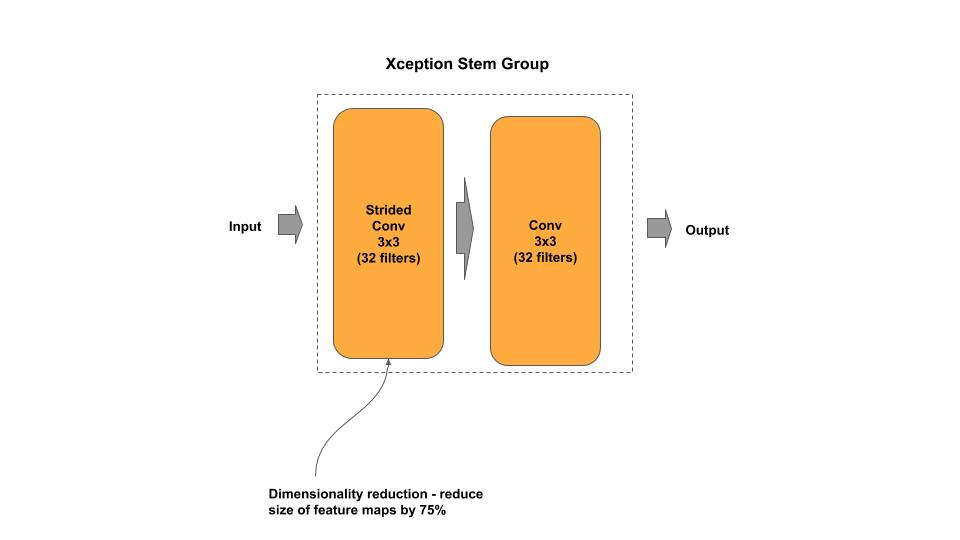
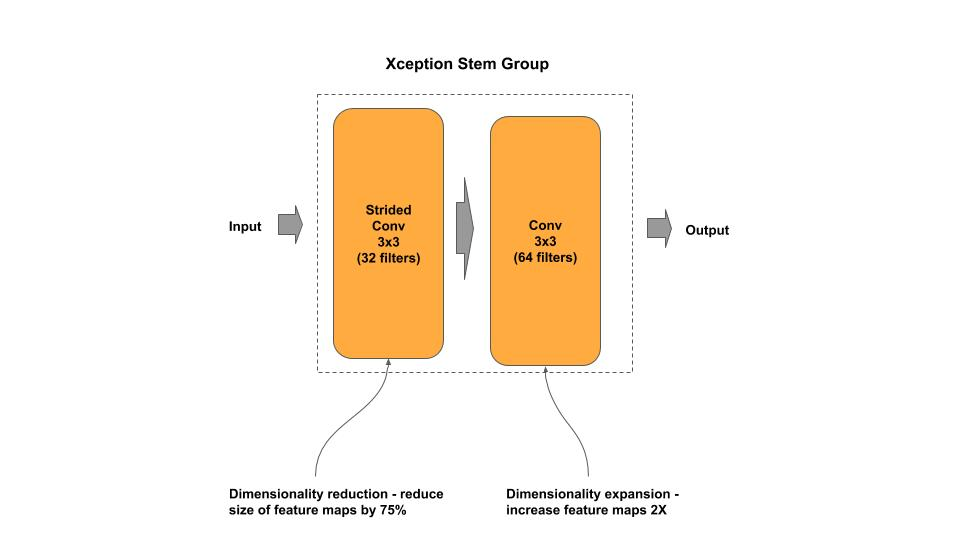
fine tune xception

Changed region(s): [[0.2188, 0.8889, 0.5, 0.9778], [0.5312, 0.8889, 0.7188, 0.9778], [0.5312, 0.4444, 0.5625, 0.5037]]

diff --git a/zoo/xception/xception.py b/zoo/xception/xception.py
@@ -27,12 +27,14 @@ def entryFlow(inputs):
         """ Create the stem entry into the neural network
             inputs : input tensor to neural network
         """
-        # First convolution
+        # Strided convolution - dimensionality reduction
+        # Reduce feature maps by 75%
         x = layers.Conv2D(32, (3, 3), strides=(2, 2))(inputs)
         x = layers.BatchNormalization()(x)
         x = layers.ReLU()(x)
 
-        # Second convolution, double the number of filters
+        # Convolution - dimensionality expansion
+        # Double the number of filters
         x = layers.Conv2D(64, (3, 3), strides=(1, 1))(x)
         x = layers.BatchNormalization()(x)
         x = layers.ReLU()(x)
